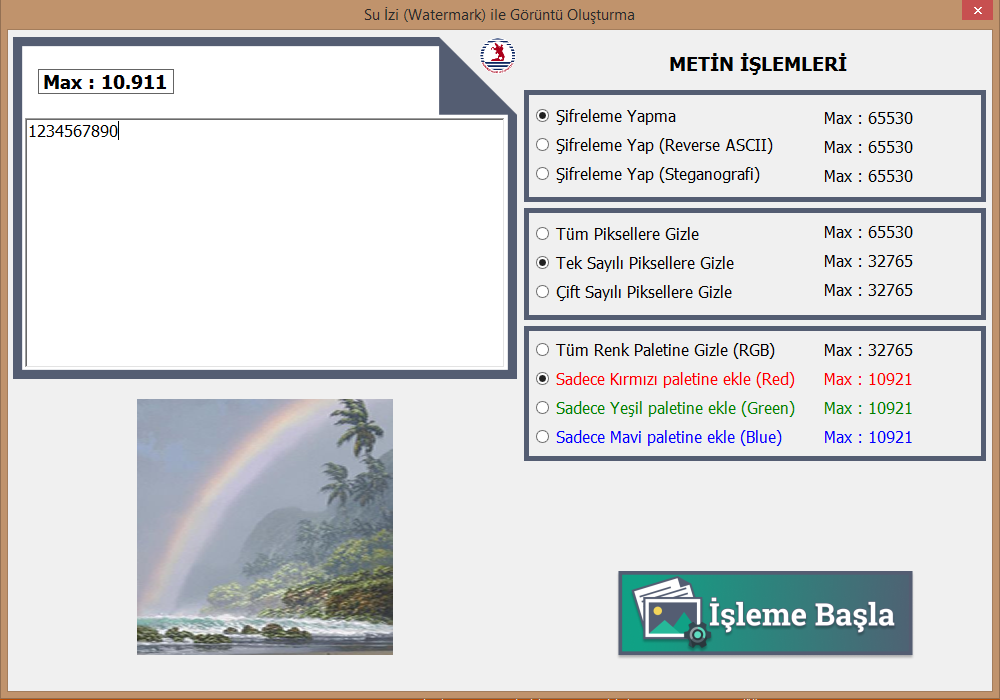
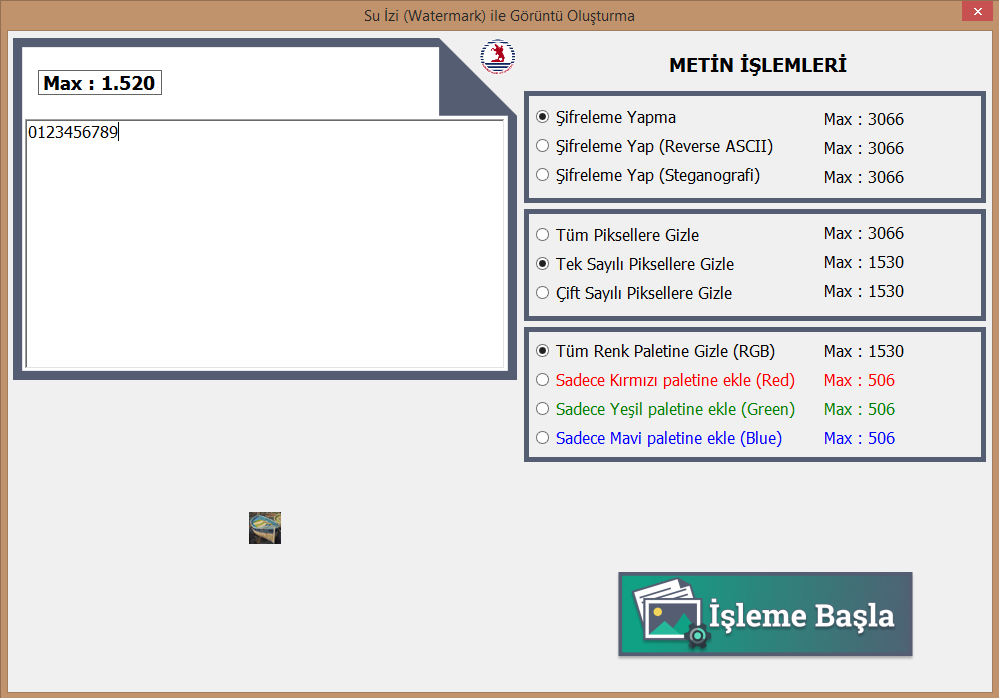
hesaplama hatası giderildi.
hesaplama hatası giderildi. görsel yenilendi.

Changed region(s): [[0.0, 0.0, 1.0, 1.0], [0.3413, 0.0, 0.6517, 0.0602], [0.4344, 0.0602, 0.5275, 0.1203]]

diff --git a/watermark/watermark/Form1.cs b/watermark/watermark/Form1.cs
@@ -73,12 +73,12 @@ namespace watermark
             panel1.Enabled = true;
             int goruntuYuksekligi = goruntuSecPictureBox.Image.Height;
             int goruntuGenisligi = goruntuSecPictureBox.Image.Width;
-            int kontrolBitSayisi = 6;
-            Int32 max = goruntuGenisligi * goruntuYuksekligi - kontrolBitSayisi;
+            //int kontrolBitSayisi = 6;
+            Int32 max = (goruntuGenisligi * goruntuYuksekligi) * 3;
             //şifreleme
-            sifreYokLabel.Text = "Max : " + max.ToString();
-            sifreAsciiLabel.Text = "Max : " + max.ToString();
-            sifreStegLabel.Text = "Max : " + max.ToString();
+            sifreYokLabel.Text = "Max : " + (max - 6).ToString();
+            sifreAsciiLabel.Text = "Max : " + (max - 6).ToString();
+            sifreStegLabel.Text = "Max : " + (max - 6).ToString();
             if (sifreYokRadioButton.Checked == true)
             {
                 panel2LabelDuzenle(max);
@@ -102,8 +102,8 @@ namespace watermark
         private void panel2LabelDuzenle(Int32 max) {
             //piksel gizleme
             panel2.Enabled = true;
-            tumPikselLabel.Text = "Max : " + max.ToString();
-            tekPikselLabel.Text = "Max : " + (max / 2).ToString();
+            tumPikselLabel.Text = "Max : " + (max - 6).ToString();
+            tekPikselLabel.Text = "Max : " + ((max / 2) - 6).ToString();
             ciftPikselLabel.Text = tekPikselLabel.Text;
             if (tumPikselRadioButton.Checked == true)
             {
@@ -114,21 +114,15 @@ namespace watermark
             {
                 max = max / 2;
                 panel3LabelDuzenle(max);
-                //tekPikselLabel.Text = "Max : " + (max / 2).ToString();
-                /*
-                 * 3.px = 0
-                 * 4.px = 0
-                */
+                //3.px = 0
+                //4.px = 0
             }
             else if (ciftPikselRadioButton.Checked == true)
             {
                 max = max / 2;
                 panel3LabelDuzenle(max);
-                //ciftPikselLabel.Text = "Max : " + (max / 2).ToString();
-                /*
-                 * 3.px = 0
-                 * 4.px = 1
-                */
+                //3.px = 0
+                //4.px = 1
             }
         }
 
@@ -136,16 +130,16 @@ namespace watermark
         {
             panel3.Enabled = true;
             //palet işlemleri
-            tumPaletLabel.Text = "Max : " + max.ToString();
-            kirmiziPaletLabel.Text = "Max : " + (max / 3).ToString();
+            tumPaletLabel.Text = "Max : " + (max - 6).ToString();
+            kirmiziPaletLabel.Text = "Max : " + ((max / 3) - 6).ToString();
             yesilPaletLabel.Text = kirmiziPaletLabel.Text;
             maviPaletLabel.Text = kirmiziPaletLabel.Text;
             if (tumPaletRadioButton.Checked == true)
             {
                 //5.px = 0
                 //6.px = 0
-                maxDegerLabel.Text = "Max : " + string.Format("{0:0,0}", max).Replace(",", ".");
-                metinRichTextBox.MaxLength = max;
+                maxDegerLabel.Text = string.Format("{0:0,0}", tumPaletLabel.Text).Replace(",", ".");
+                metinRichTextBox.MaxLength = max - 6;
                 metinRichTextBox.Enabled = true;
             }
             else if (kirmiziPaletRadioButton.Checked == true)
@@ -154,8 +148,8 @@ namespace watermark
                 //5.px = 0
                 //6.px = 1
                 max = max / 3;
-                maxDegerLabel.Text = "Max : " + string.Format("{0:0,0}", max).Replace(",", ".");
-                metinRichTextBox.MaxLength = max;
+                maxDegerLabel.Text = string.Format("{0:0,0}", kirmiziPaletLabel.Text).Replace(",", ".");
+                metinRichTextBox.MaxLength = (max / 3) - 6;
                 metinRichTextBox.Enabled = true;
             }
             else if (yesilPaletRadioButton.Checked == true)
@@ -163,8 +157,8 @@ namespace watermark
                 //5.px = 1
                 //6.px = 0
                 max = max / 3;
-                maxDegerLabel.Text = "Max : " + string.Format("{0:0,0}", max).Replace(",", ".");
-                metinRichTextBox.MaxLength = max;
+                maxDegerLabel.Text = string.Format("{0:0,0}", yesilPaletLabel.Text).Replace(",", ".");
+                metinRichTextBox.MaxLength = (max / 3) - 6;
                 metinRichTextBox.Enabled = true;
             }
             else if (maviPaletRadioButton.Checked == true)
@@ -172,8 +166,8 @@ namespace watermark
                 //5.px = 1
                 //6.px = 1
                 max = max / 3;
-                maxDegerLabel.Text = "Max : " + string.Format("{0:0,0}", max).Replace(",", ".");
-                metinRichTextBox.MaxLength = max;
+                maxDegerLabel.Text = string.Format("{0:0,0}", maviPaletLabel.Text).Replace(",", ".");
+                metinRichTextBox.MaxLength = (max / 3) - 6;
                 metinRichTextBox.Enabled = true;
             }
             // En anlamsız 2 bit işlemleri duruma göre yapılacak.. Standart şuan aktif olan LSB 1 Bit.
